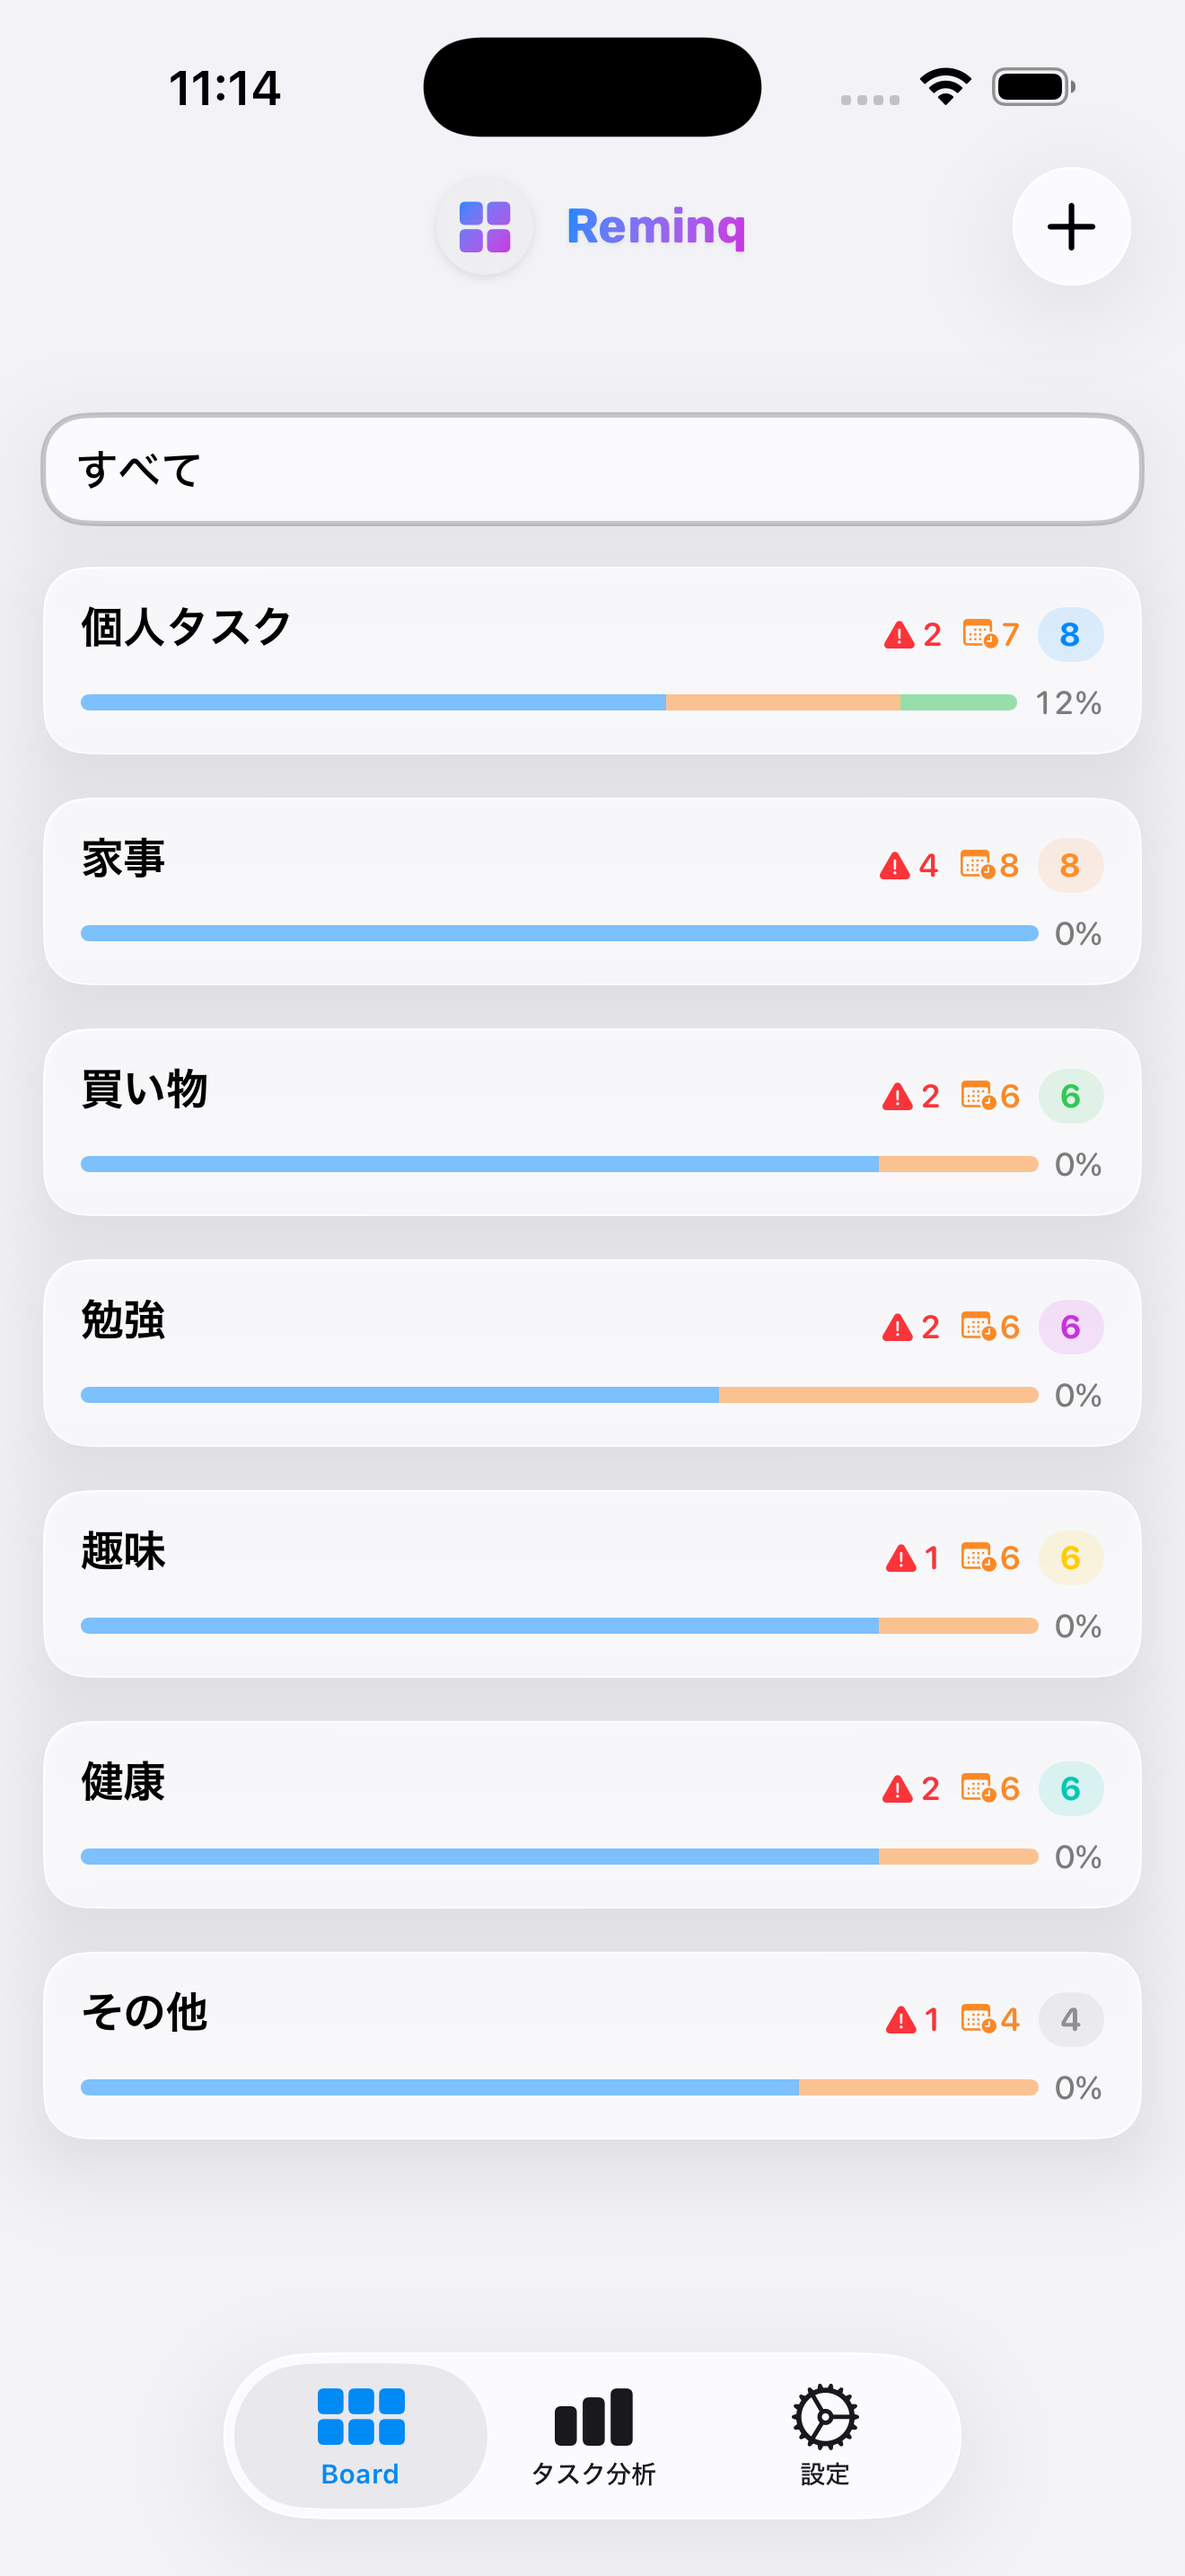
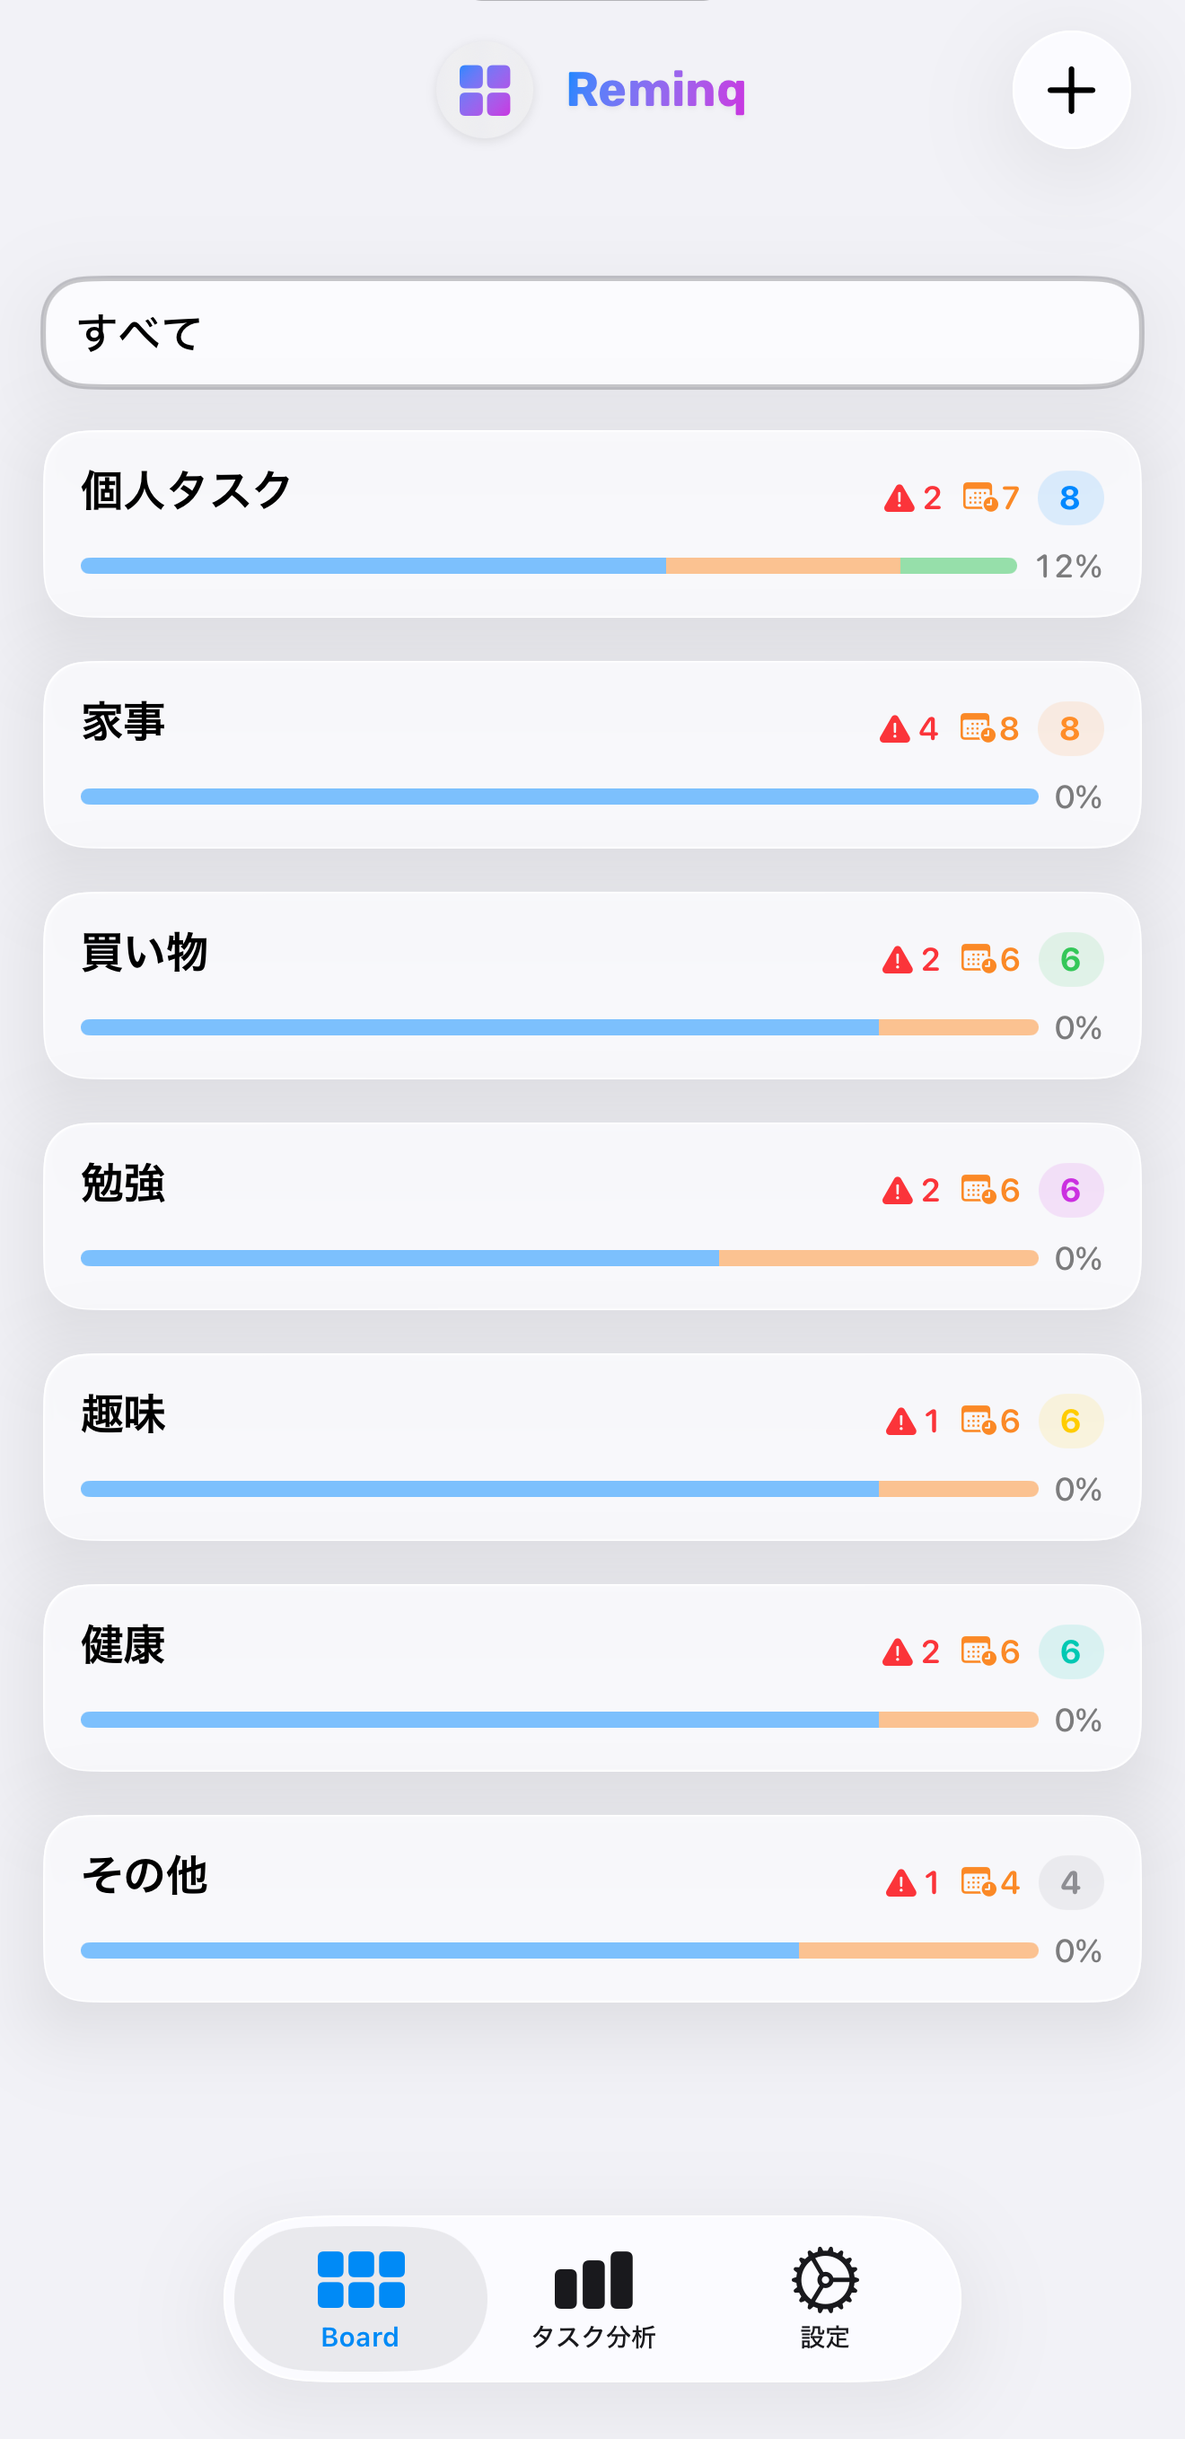
Enlarge hero iPhone overlay & strip its status bar
- Bump .hero-iphone width 18% → 26% (30% on narrow viewports), nudge
  position and tighten the rotation so it reads as a paired device
- Crop the top 152px (status bar / notch row) off every raw iPhone
  PNG so the time/date row no longer appears

diff --git a/styles.css b/styles.css
@@ -487,11 +487,17 @@ h1, h2, h3, h4, h5, h6 {
 
 .hero-iphone {
   position: absolute;
-  bottom: -40px;
-  left: -20px;
-  width: 18%;
-  border-radius: 18px;
-  filter: drop-shadow(0 24px 48px rgba(0, 0, 0, 0.5));
+  bottom: -56px;
+  left: -32px;
+  width: 26%;
+  border-radius: 22px;
+  border: 1px solid var(--border-soft);
+  filter: drop-shadow(0 32px 64px rgba(0, 0, 0, 0.55));
+  transform: rotate(-4deg);
+}
+
+@media (max-width: 960px) {
+  .hero-iphone { width: 30%; left: -16px; bottom: -32px; }
 }
 
 @media (max-width: 720px) {
